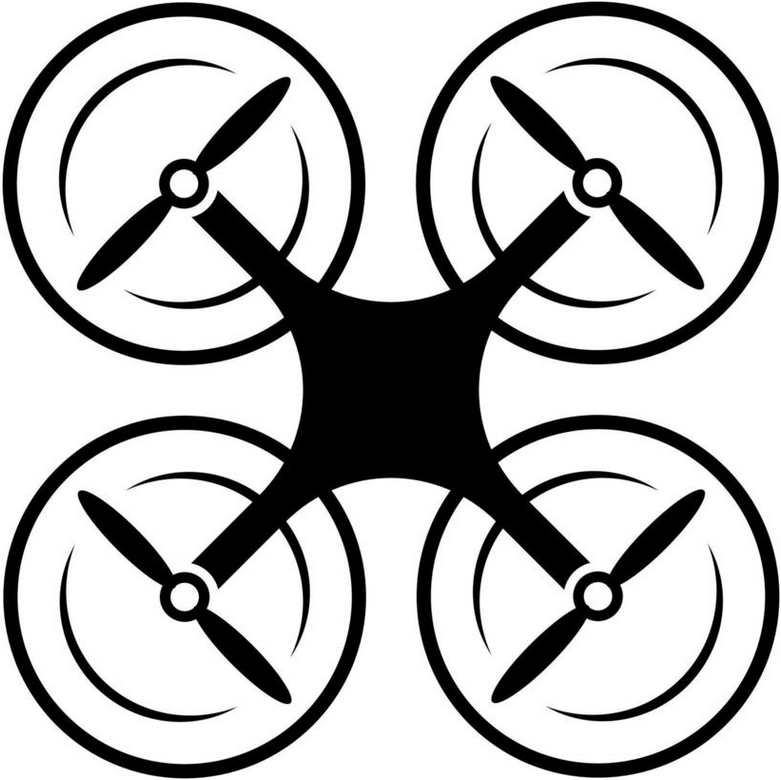
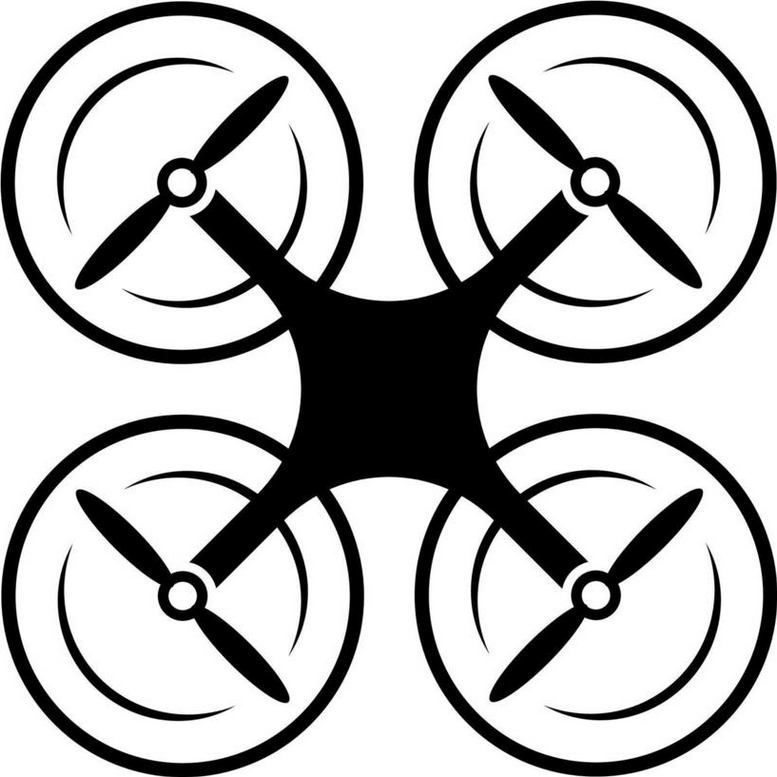
implemented yaw, pitch and roll

diff --git a/Chopper.py b/Chopper.py
@@ -1,36 +1,74 @@
 import cv2
+import numpy as np
+import math
 from Point import Point
 
 class Chopper(Point):
     def __init__(self, name):
         super(Chopper, self).__init__(name)
         self.icon = cv2.imread("pictures/drone.png") /255.0
-        self.icon_w = 32
-        self.icon_h = 32
+        self.icon_w = 25
+        self.icon_h = 25
         self.icon = cv2.resize(self.icon, (self.icon_h, self.icon_w))
         self.tips = []
         self.sensors = []
 
     def create_tips(self):
+        # Convert angle to radians
+        angle_rad = math.radians(self.angle)
+        # Get x, y
         y, x = self.get_position()
-        top_left = int(y-self.icon_h/2), int(x-self.icon_w/2)
-        top_right = int(y-self.icon_h/2), int(x+self.icon_w/2)
-        bootom_right = int(y+self.icon_h/2), int(x+self.icon_w/2)
-        bottom_left = int(y+self.icon_h/2), int(x-self.icon_w/2)
         
-        return [top_left, top_right, bootom_right, bottom_left]
+        top_left = [y-self.icon_h/2, x-self.icon_w/2]
+        top_left[0] = int(np.floor(top_left[1] * math.sin(angle_rad) + top_left[0] * math.cos(angle_rad)))
+        top_left[1] = int(np.floor(top_left[1] * math.cos(angle_rad) - top_left[0] * math.sin(angle_rad)))
+        
+        top_right = [y-self.icon_h/2, x+self.icon_w/2]
+        top_right[0] = int(np.floor(top_right[1] * math.sin(angle_rad) + top_right[0] * math.cos(angle_rad)))
+        top_right[1] = int(np.floor(top_right[1] * math.cos(angle_rad) - top_right[0] * math.sin(angle_rad)))
+
+        bottom_right = [(y+self.icon_h/2), (x+self.icon_w/2)]
+        bottom_right[0] = int(np.floor(bottom_right[1] * math.sin(angle_rad) + bottom_right[0] * math.cos(angle_rad)))
+        bottom_right[1] = int(np.floor(bottom_right[1] * math.cos(angle_rad) - bottom_right[0] * math.sin(angle_rad)))
+
+        bottom_left = [(y+self.icon_h/2), (x-self.icon_w/2)]
+        bottom_left[0] = int(np.floor(bottom_left[1] * math.sin(angle_rad) + bottom_left[0] * math.cos(angle_rad)))
+        bottom_left[1] = int(np.floor(bottom_left[1] * math.cos(angle_rad) - bottom_left[0] * math.sin(angle_rad)))
+        
+        self.tips =  [top_left, top_right, bottom_right, bottom_left]
 
     def create_sensors(self):
+        # Convert angle to radians
+        angle_rad = math.radians(self.angle)
+        # Get x, y
         y, x = self.get_position()
-        north_sensor = int(y-self.icon_h-10), int(x)
-        east_sensor = int(y), int(x+self.icon_w+10)
-        south_sensor = int(y+self.icon_h+10), int(x)
-        west_sensor = int(y), int(x-self.icon_w-10)
+
+        top_sensor = [(y-self.icon_h-10), (x)]
+        top_sensor[0] = int(np.floor(top_sensor[1] * math.sin(angle_rad) + top_sensor[0] * math.cos(angle_rad)))
+        top_sensor[1] = int(np.floor(top_sensor[1] * math.cos(angle_rad) - top_sensor[0] * math.sin(angle_rad)))
+
+        right_sensor = [(y), (x+self.icon_w+10)]
+        right_sensor[0] = int(np.floor(right_sensor[1] * math.sin(angle_rad) + right_sensor[0] * math.cos(angle_rad)))
+        right_sensor[1] = int(np.floor(right_sensor[1] * math.cos(angle_rad) - right_sensor[0] * math.sin(angle_rad)))
+
+        bottom_sensor = [(y+self.icon_h+10), (x)]
+        bottom_sensor[0] = int(np.floor(bottom_sensor[1] * math.sin(angle_rad) + bottom_sensor[0] * math.cos(angle_rad)))
+        bottom_sensor[1] = int(np.floor(bottom_sensor[1] * math.cos(angle_rad) - bottom_sensor[0] * math.sin(angle_rad)))
+
+        left_sensor = [y, x-self.icon_w-10]
+        left_sensor[0] = int(np.floor(left_sensor[1] * math.sin(angle_rad) + left_sensor[0] * math.cos(angle_rad)))
+        left_sensor[1] = int(np.floor(left_sensor[1] * math.cos(angle_rad) - left_sensor[0] * math.sin(angle_rad)))
         
-        return [north_sensor, east_sensor, south_sensor, west_sensor]
+        self.sensors = [top_sensor, right_sensor, bottom_sensor, left_sensor]
     
-    def set_tips(self):
-        self.tips = self.create_tips()
-    
-    def set_sensors(self):
-        self.sensors = self.create_sensors()
+    def rotate_icon(self):
+        self.icon = cv2.imread("pictures/drone.png") /255.0
+        self.icon = cv2.resize(self.icon, (self.icon_h, self.icon_w))
+
+        # Create the rotation matrix
+        rot_mat = cv2.getRotationMatrix2D((self.icon_w//2, self.icon_h//2), self.angle, 1.0)
+
+        # Apply the rotation
+        rotated_image = cv2.warpAffine(self.icon, rot_mat, (self.icon.shape[1], self.icon.shape[0]))
+
+        self.icon = rotated_image

diff --git a/ChopperScape.py b/ChopperScape.py
@@ -27,7 +27,7 @@ class ChopperScape(Env):
                                             dtype = np.float16)
         
         # Define an action space ranging from 0 to 4
-        self.action_space = spaces.Discrete(6,)
+        self.action_space = spaces.Discrete(8,)
                         
         # Create a canvas to render the environment images upon 
         self.canvas = np.ones(self.observation_shape) * 1
@@ -54,7 +54,7 @@ class ChopperScape(Env):
             x,y = elem.x, elem.y
             self.canvas[int(y - elem_shape[1]/2) : int(y + elem_shape[1]/2), int(x - elem_shape[0]/2 ): int(x + elem_shape[0]/2)] = elem.icon
 
-        text = 'Fuel Left: {} | Rewards: {}'.format(self.fuel_left, self.ep_return)
+        text = 'Fuel Left: {} | Rewards: {} | Angle: {}'.format(self.fuel_left, self.ep_return, self.chopper.angle)
 
         # Put the info on canvas 
         self.canvas = cv2.putText(self.canvas, text, (10,20), font,  
@@ -91,8 +91,9 @@ class ChopperScape(Env):
         # Intialise the chopper
         self.chopper = Chopper("chopper")
         self.chopper.set_position(y, x)
-        self.chopper.set_tips()
-        self.chopper.set_sensors()
+        self.chopper.rotate_icon()
+        self.chopper.create_tips()
+        self.chopper.create_sensors()
 
         # Intialise the elements 
         self.elements = [self.chopper]
@@ -124,7 +125,6 @@ class ChopperScape(Env):
 
     def has_collided(self):
         tips = self.chopper.tips
-        temp = self.map.map[tips[0][0], tips[0][1]]
         if self.map.is_black(tips[0][0], tips[0][1]): return True
         elif self.map.is_black(tips[1][0], tips[1][1]): return True
         elif self.map.is_black(tips[2][0], tips[2][1]): return True
@@ -145,16 +145,26 @@ class ChopperScape(Env):
         reward = 1      
 
         # apply the action to the chopper
-        if action == 0:
-            self.chopper.move(-2, 0)
-        elif action == 1:
-            self.chopper.move(0, 2)
-        elif action == 2:
-            self.chopper.move(2, 0)
-        elif action == 3:
-            self.chopper.move(0, -2)
-        self.chopper.set_tips()
-        self.chopper.set_sensors()
+        match action:
+            case 0:
+                self.chopper.pitch()
+            case 1:
+                self.chopper.pitch(dir=False)
+            case 2:
+                self.chopper.roll()
+            case 3:
+                self.chopper.roll(dir=False)
+            case 4:
+                self.chopper.yaw()
+            case 5:
+                self.chopper.yaw(dir=False)
+            case _:
+                pass
+        
+        # Update chopper position
+        self.chopper.rotate_icon()
+        self.chopper.create_tips()
+        self.chopper.create_sensors()
 
         # If chopper has collided
         if self.has_collided():
@@ -188,16 +198,15 @@ if __name__ == "__main__":
     obs = env.reset()
 
     while True:
-        # Take a random action
+        key = cv2.waitKey(1) & 0xFF
         print(env.fuel_left)
-        action = env.action_space.sample()
+        action = int(chr(key) if key != 0xFF else 6)
         obs, reward, done, info = env.step(action)
 
-        
         # Render the game
         env.render(mode='human')
         env.canvas = np.ones(env.observation_shape) * 1
-        
+
         if done == True:
             break
 

diff --git a/Point.py b/Point.py
@@ -1,7 +1,10 @@
+import math
+
 class Point(object):
     def __init__(self, name):
         self.x = 0
         self.y = 0
+        self.angle = 0
         self.name = name
     
     def set_position(self, y, x):
@@ -11,6 +14,16 @@ class Point(object):
     def get_position(self):
         return (self.y, self.x)
     
-    def move(self, del_y, del_x):
-        self.x += del_x
-        self.y += del_y
+    def pitch(self, dir=True):
+        p = 1 if dir else -1
+        self.x += math.cos(math.radians(self.angle)) * p
+        self.y += math.sin(math.radians(self.angle)) * p
+
+    def roll(self, dir=True):
+        r = 1 if dir else -1
+        self.x += math.sin(math.radians(self.angle)) * r
+        self.y += math.cos(math.radians(self.angle)) * r
+    
+    def yaw(self, dir=True):
+        y = 1 if dir else -1
+        self.angle += y
